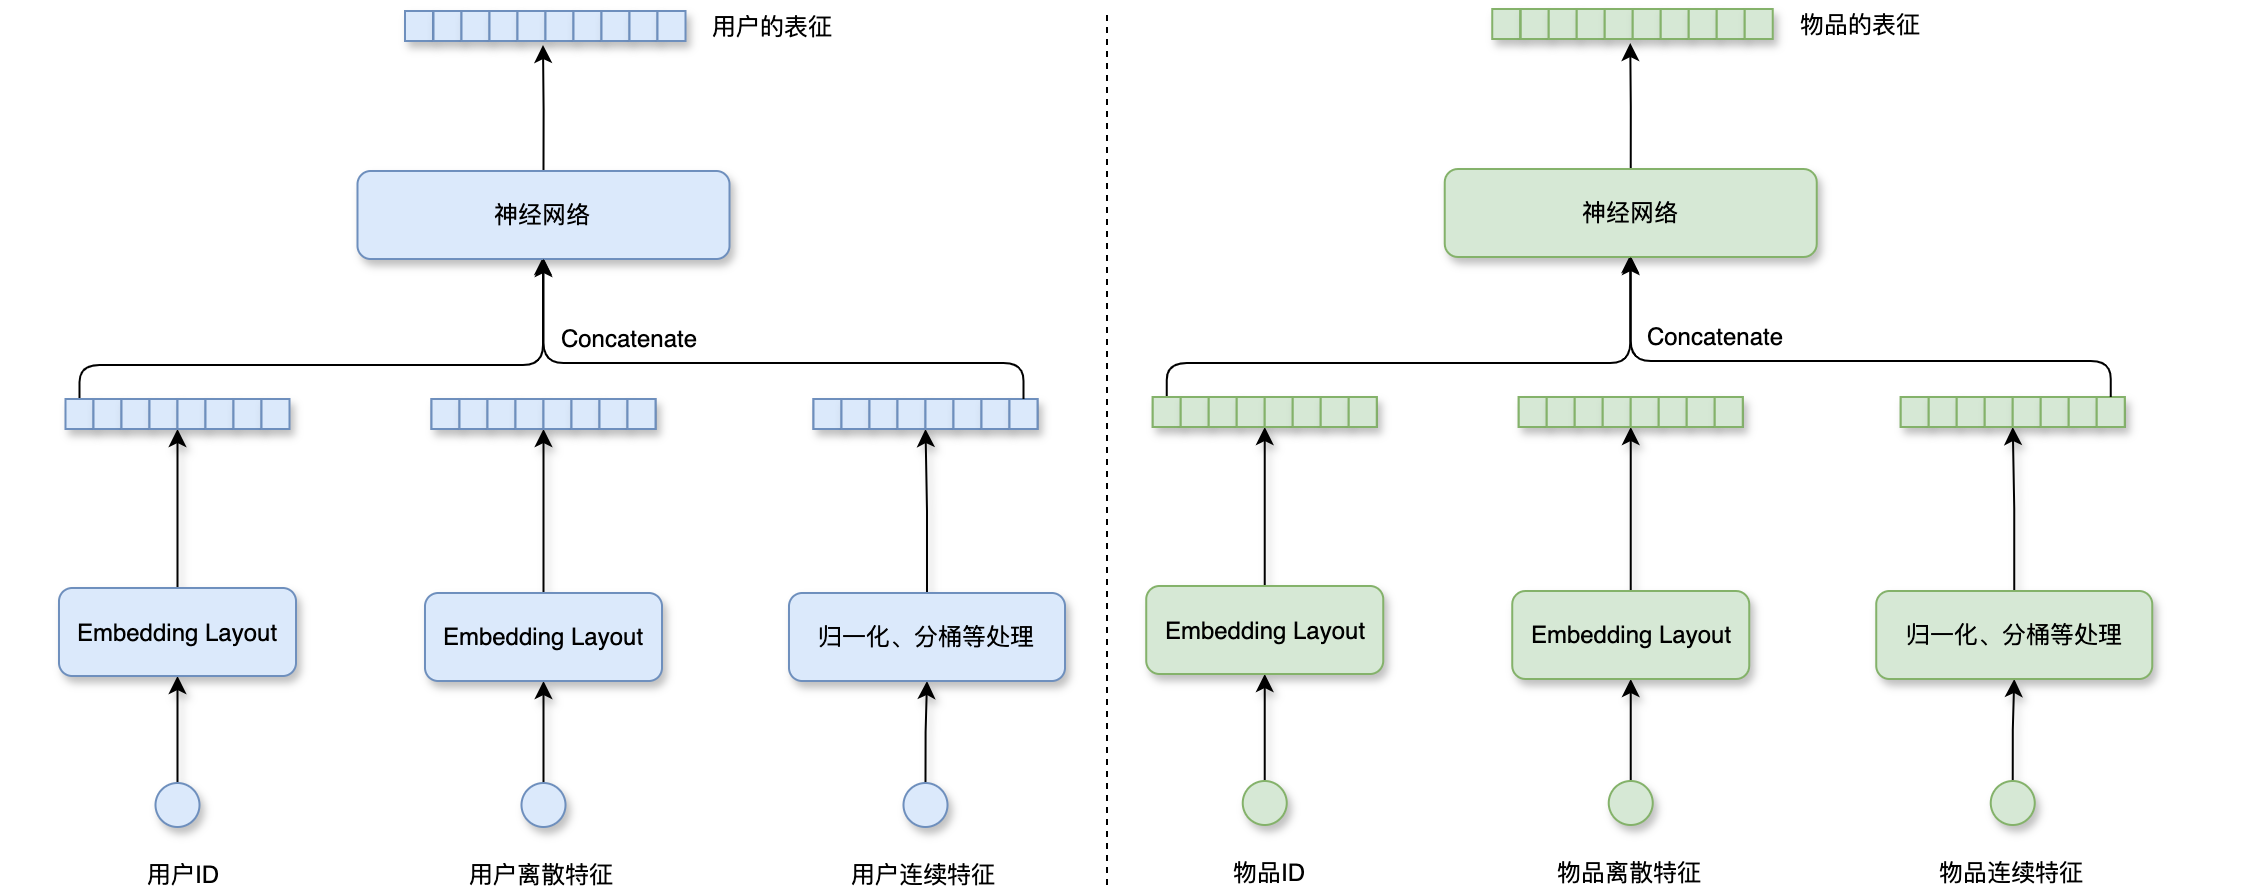
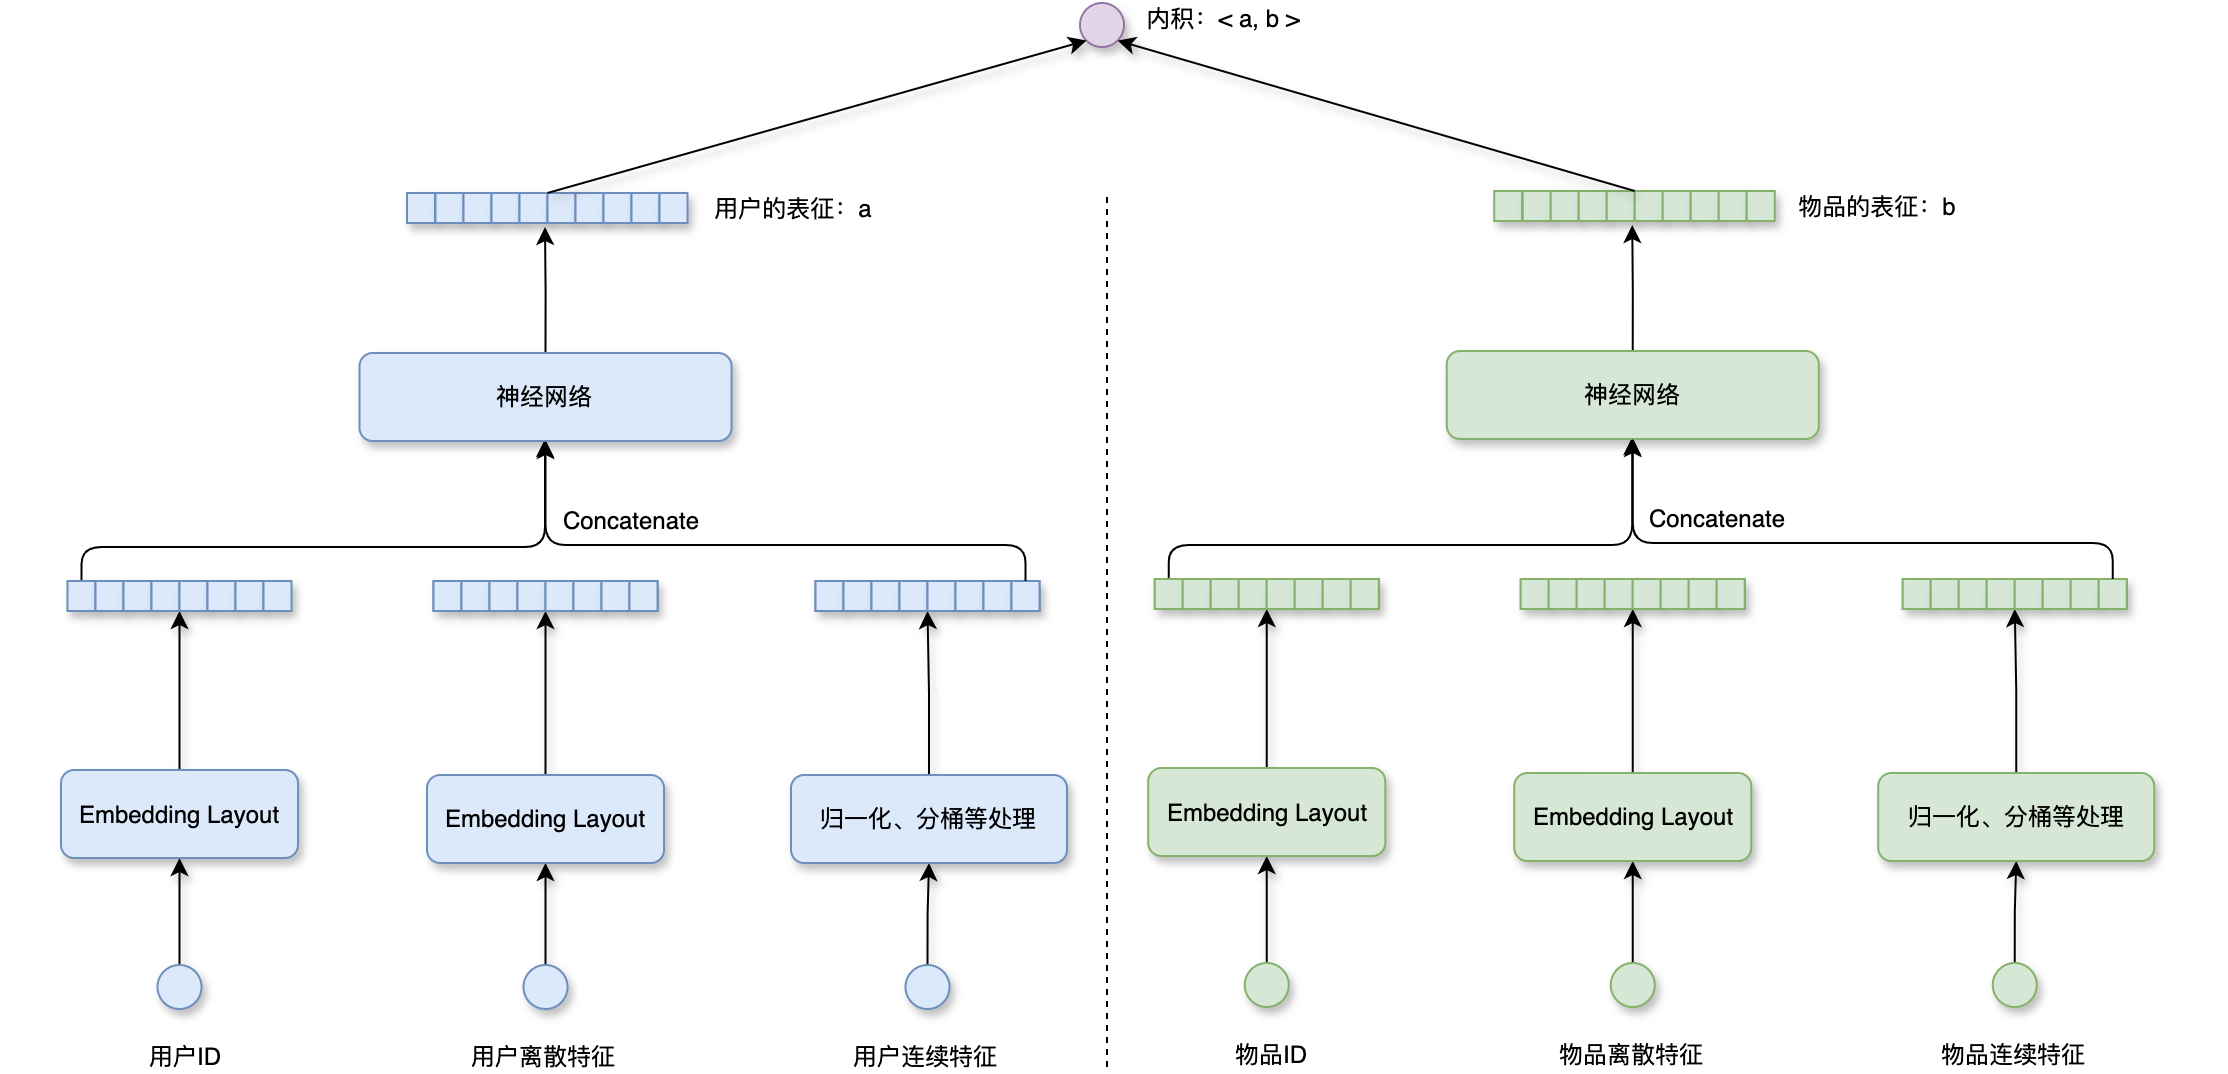
ai

diff --git a/source/_posts/artificial-intelligence/ML12_theory_study.md b/source/_posts/artificial-intelligence/ML12_theory_study.md
@@ -89,4 +89,6 @@ mathjax:
 **双塔模型**(`DSSM`)的结构：我们知道用户`ID`，还能从用户填写的资料、用户行为中获取许多特征，包括用户的离散特征、连续特征。所有这些特征不能直接输入到神经网络中，需要先做一些处理，比如用`Embedding`层把一个用户映射到一个向量。用户还有很多离散特征，比如所在城市，感兴趣的话题等等，用`Embedding`层把离散特征映射一个向量，对于每个离散特征用单独的`Embedding`层得到一个向量，比如用户所在城市用一个`Embedding`层、用户感兴趣的话题用另外一个`Embedding`层，对于性别这样类别很少的离散特征可以用`One-hot`编码就行，不做`Embedding`层。用户还有很多连续特征，比如年龄、活跃程度、消费金额等，不同的连续特征有不同的处理方法。最简单方式归一化，让均值是`0`，标准差是`1`。有些长尾分布的连续特征需要特殊处理，比如取对数或做分桶等处理。做完特征处理得到很多特征向量，把这些向量都拼起来输入神经网络。神经网络可以是简单的全连接网络，也可以是更复杂的结构，比如是深度交叉网络，神经网络输出一个向量，这个向量就是用户的表征，做召回会用到这个向量。物品的特征也是用类似的方法来处理，用`Embedding`层处理物品`ID`和物品离散特征，用归一化、取对数或分桶等方法处理物品连续特征。把得到的特征输入一个神经网络，神经网络输出的向量就是物品的表征，用于做召回。如下图所示：
 {% asset_img ml_12.png "双塔模型(`DSSM`)" %}
 
-这样的模型就叫**双塔模型**(`DSSM`)，
+这样的模型就叫**双塔模型**(`DSSM`)，左边的塔提取用户的特征，右边的塔提取物品的特征。双塔模型的不同之处就是使用了ID之外的多种特征，作为双塔的输入。两个塔各输出一个向量，记作{% mathjax %}\vec{a},\vec{b}{% endmathjax %}，两个向量的内积就是模型最终的输出，预估用户对物品的兴趣，现在更常用**余弦相似度**({% mathjax %}\cos(\vec{a},vec{b}) = \frac{<\vec{a},\vec{b}>}{||\vec{a}||_2\cdot ||\vec{b}||_2}{% endmathjax %})，两个塔的输出分别记作{% mathjax %}\vec{a},\vec{b}{% endmathjax %}，**余弦相似度**意思是两个向量夹角的余弦值，他等于这两个向量的内积再除以除以{% mathjax %}\vec{a}{% endmathjax %}的二范数，再除以{% mathjax %}\vec{b}{% endmathjax %}的二范数。其实相当于对两个向量先做归一化，然后再求内积。余弦相似度的大小介于`-1~1`之间。
+
+这里有三种训练双塔模型的方式，
